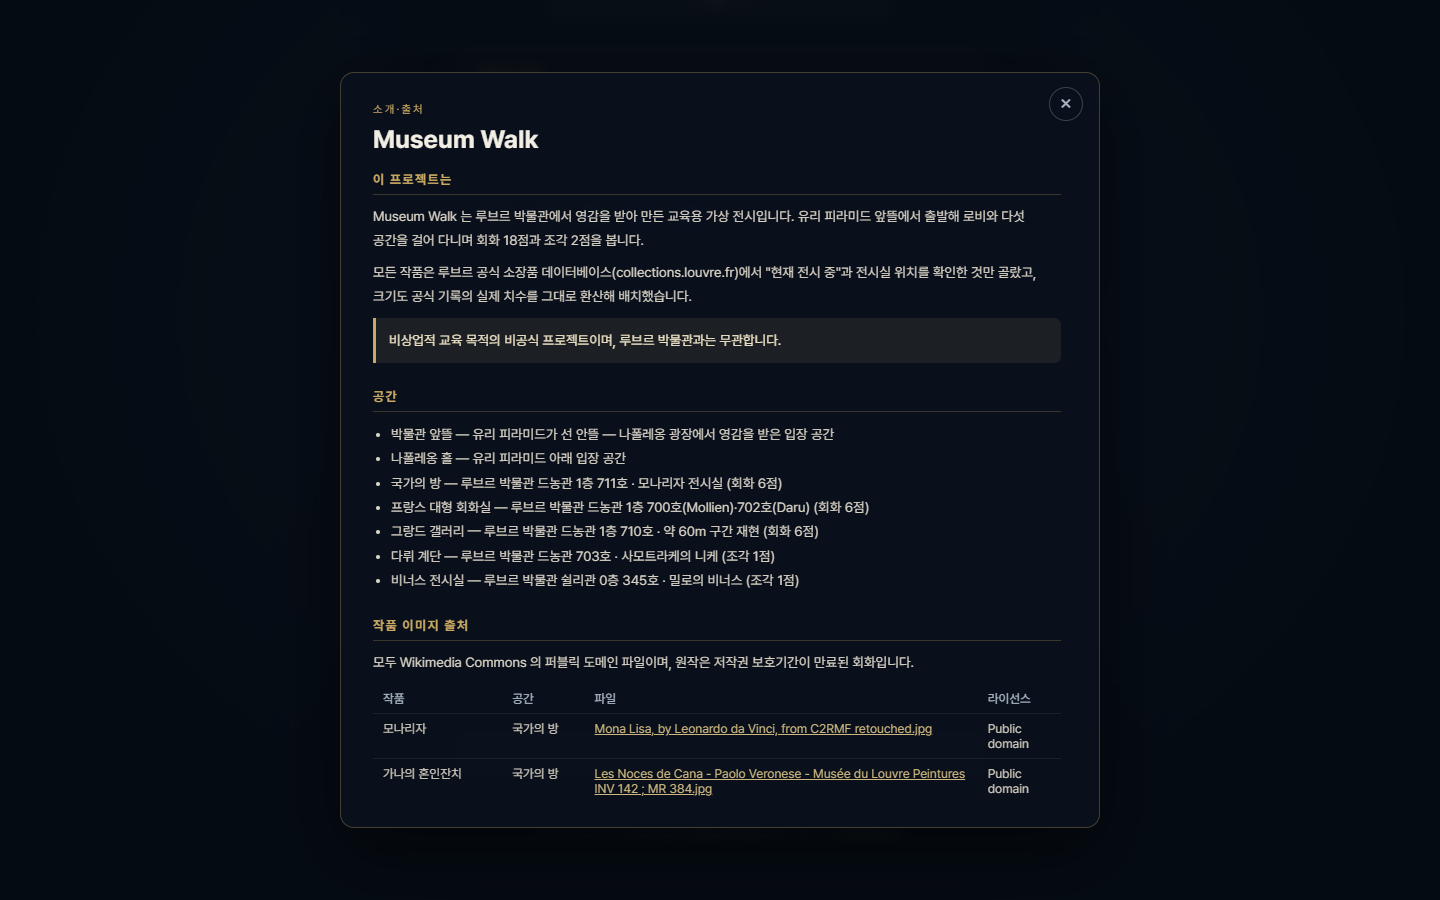
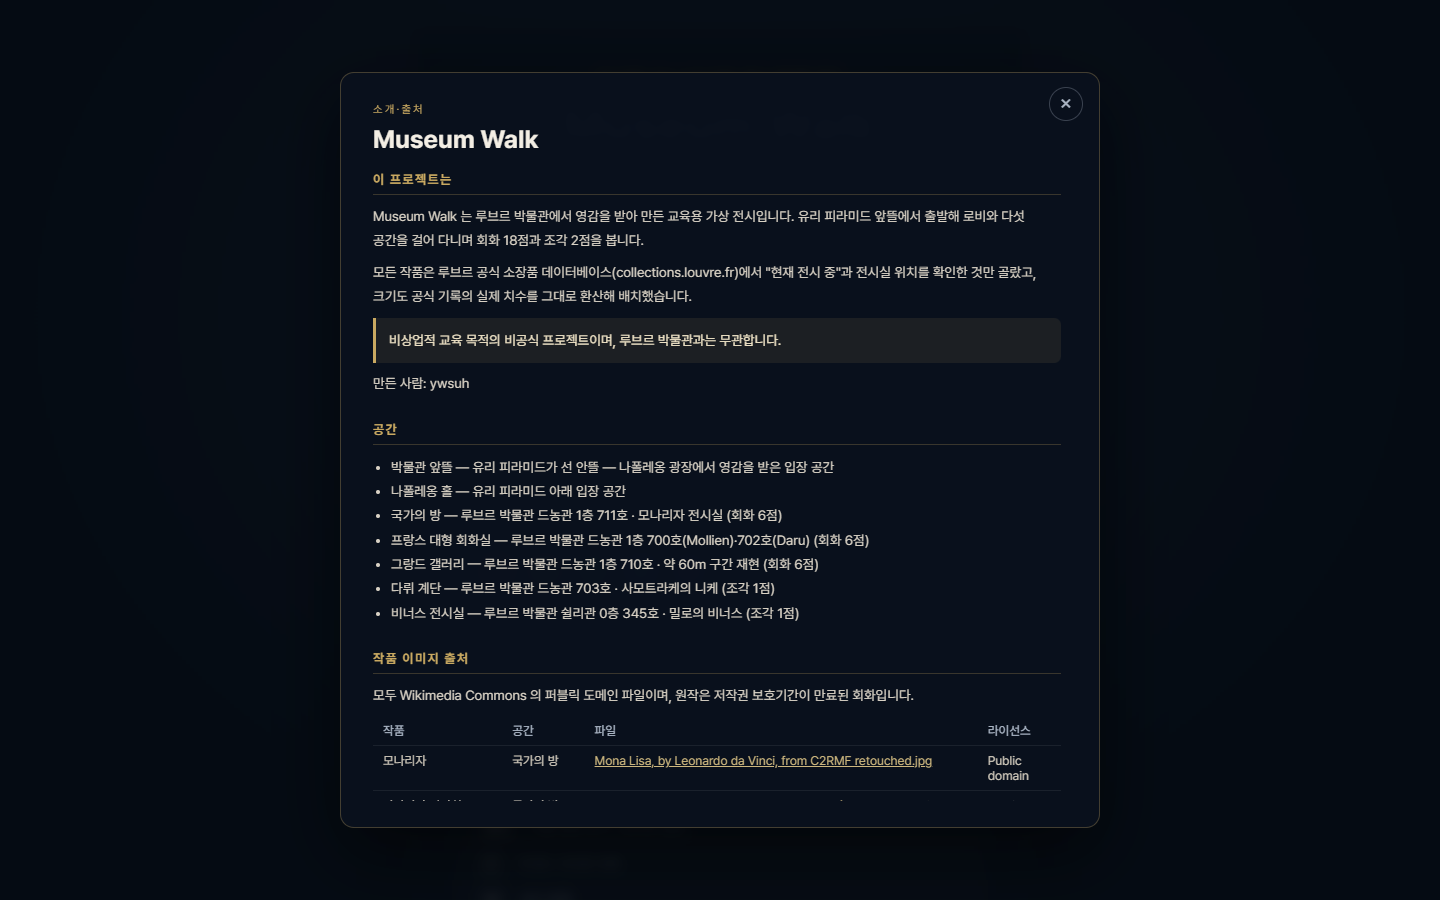
제작자 표기를 ywsuh 로 설정
- SITE.CREDIT_NAME = 'ywsuh' — "소개·출처" 화면에 "만든 사람: ywsuh" 로 표시
- SITE.FEEDBACK_URL 은 비워 둔 채로 유지. 구글 폼을 만든 뒤 넣을 수 있도록
  주석에 폼·메일 주소 예시를 적어 두었다. 비어 있으면 "의견 보내기" 섹션과
  버튼이 통째로 숨겨진다(확인함).
- 사이트 이름·Beta 표시는 그대로

확인: 소개 화면에 제작자 표시됨 / 의견 보내기 섹션 숨김 / Beta 표시 유지 /
npm run build 성공 · 콘솔 오류 0

Changed region(s): [[0.25, 0.4044, 0.7188, 0.9022], [0.25, 0.84, 0.3125, 0.8711]]

diff --git a/src/config.js b/src/config.js
@@ -16,9 +16,12 @@ export const SITE = {
   DISCLAIMER: '비상업적 교육 목적의 비공식 프로젝트이며, 루브르 박물관과는 무관합니다.',
 
   /** 제작자 이름. 비워 두면 "소개·출처" 화면에서 숨겨집니다. */
-  CREDIT_NAME: '',
+  CREDIT_NAME: 'ywsuh',
 
-  /** 의견 보내기 링크(폼·이메일·이슈 등). 비워 두면 버튼이 숨겨집니다. */
+  /**
+   * 의견 보내기 링크(구글 폼·이메일·이슈 등). 비워 두면 버튼이 숨겨집니다.
+   * 예) 'https://forms.gle/xxxxxxxx' 또는 'mailto:you@example.com'
+   */
   FEEDBACK_URL: '',
 
   /** 화면 구석 "Beta" 표시 */
